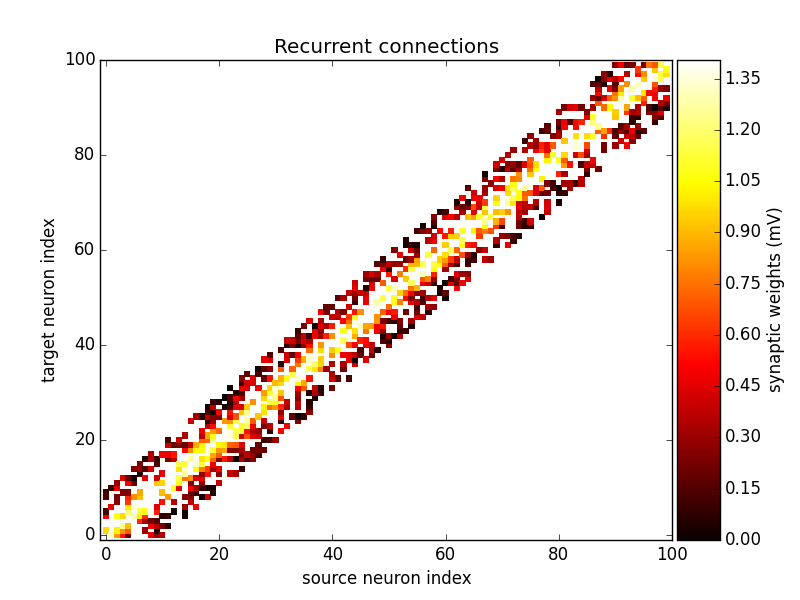
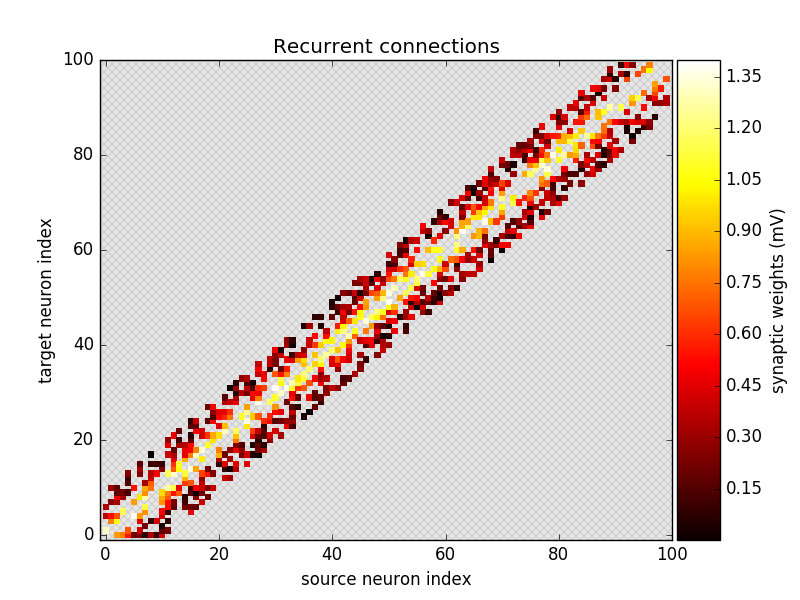
Add a new `add_background_pattern function` and use it in one of the examples

diff --git a/brian2tools/plotting/base.py b/brian2tools/plotting/base.py
@@ -2,6 +2,7 @@
 Base module for the plotting facilities.
 '''
 import matplotlib.pyplot as plt
+import matplotlib.patches as patches
 import numpy as np
 
 from brian2.core.variables import VariableView
@@ -17,7 +18,7 @@ from .data import plot_raster, plot_state, plot_rate
 from .morphology import plot_dendrogram
 from .synapses import plot_synapses
 
-__all__ = ['brian_plot']
+__all__ = ['brian_plot', 'add_background_pattern']
 
 logger = get_logger(__name__)
 
@@ -151,3 +152,40 @@ def brian_plot(brian_obj,
     else:
         raise NotImplementedError('Do not know how to plot object of type '
                                   '%s' % type(brian_obj))
+
+
+def add_background_pattern(axes, hatch='xxx', fill=True, fc=(0.9, 0.9, 0.9),
+                           ec=(0.8, 0.8, 0.8), zorder=-10, **kwds):
+    '''
+    Add a "hatching" pattern to the background of the axes (can be useful to
+    make a difference between "no value" and a value mapped to a color value
+    that is identical to the background color). By default, it uses a cross
+    hatching pattern in gray which can be changed by providing the respective
+    arguments. All additional keyword arguments are passed on to the
+    `~matplotlib.patches.Rectangle` intializer.
+
+    Parameters
+    ----------
+    axes : `matplotlib.axes.Axes`
+        The axes where the
+    hatch : str, optional
+        See `matplotlib.patches.Patch.set_hatch`. Defaults to `'xxx'`.
+    fill : bool, optional
+        See `matplotlib.patches.Patch.set_fill`. Defaults to `True`.
+    fc : mpl color spec or None or 'none'
+        See `matplotlib.patches.Patch.set_facecolor`. Defaults to
+        `(0.9, 0.9, 0.9)`.
+    ec : mpl color spec or None or 'none'
+        See `matplotlib.patches.Patch.set_edgecolor`. Defaults to
+        `(0.8, 0.8, 0.8)`.
+    zorder : int
+        See `matplotlib.artist.Artist.set_zorder`. Defaults to `-10`.
+    '''
+    xmin, xmax = axes.get_xlim()
+    ymin, ymax = axes.get_ylim()
+    xy = (xmin,ymin)
+    width = xmax - xmin
+    height = ymax - ymin
+    p = patches.Rectangle(xy, width, height, hatch=hatch, fill=fill, fc=fc,
+                          ec=ec, zorder=zorder, **kwds)
+    axes.add_patch(p)

diff --git a/brian2tools/plotting/__init__.py b/brian2tools/plotting/__init__.py
@@ -3,10 +3,10 @@ Package containing plotting modules.
 """
 # It is a bit annoying, but otherwise `from brian2tools import *` will import
 # names such as `synapses`.
-from .base import brian_plot
+from .base import brian_plot, add_background_pattern
 from .data import plot_raster, plot_state, plot_rate
 from .morphology import plot_morphology, plot_dendrogram
 from .synapses import plot_synapses
 
-__all__ = ['brian_plot', 'plot_raster', 'plot_state', 'plot_rate',
-           'plot_morphology', 'plot_dendrogram', 'plot_synapses']
+__all__ = ['brian_plot', 'add_background_pattern', 'plot_raster', 'plot_state',
+           'plot_rate', 'plot_morphology', 'plot_dendrogram', 'plot_synapses']

diff --git a/brian2tools/tests/test_plotting.py b/brian2tools/tests/test_plotting.py
@@ -11,6 +11,7 @@ from brian2tools import *
 def test_import():
     # Make sure that the expected names are there
     brian_plot
+    add_background_pattern
     plot_raster
     plot_state
     plot_rate
@@ -67,6 +68,7 @@ def test_plot_synapses():
     assert isinstance(ax, matplotlib.axes.Axes)
     close()
     ax = plot_synapses(synapses.i, synapses.j, plot_type='image')
+    add_background_pattern(ax)
     assert isinstance(ax, matplotlib.axes.Axes)
     close()
     ax = plot_synapses(synapses.i, synapses.j, plot_type='hexbin')

diff --git a/dev/doc_tools/plotting_examples/synapses_plots.py b/dev/doc_tools/plotting_examples/synapses_plots.py
@@ -36,6 +36,7 @@ close()
 
 ax = plot_synapses(synapses.i, synapses.j, synapses.w, var_name='synaptic weights',
                    plot_type='scatter', cmap='hot')
+add_background_pattern(ax)
 ax.set_title('Recurrent connections')
 synapses.connect(j='i+k for k in sample(-10, 10, p=0.5) if k != 0',
                  skip_if_invalid=True)  # ignore values outside of the limits

diff --git a/docs_sphinx/user/plotting.rst b/docs_sphinx/user/plotting.rst
@@ -181,10 +181,13 @@ Synaptic variables such as synaptic weights or delays can also be plotted with `
 
 .. image:: ../images/plot_synapses_weights_delays.svg
 
-Again, using `~brian2tools.plotting.synapses.plot_synapses` provides more control::
+Again, using `~brian2tools.plotting.synapses.plot_synapses` provides more control. The following code snippet also calls
+the `~brian2tools.plotting.base.add_background_pattern` function to make the distinction between white color values and
+the background clearer::
 
     ax = plot_synapses(synapses.i, synapses.j, synapses.w, var_name='synaptic weights',
                        plot_type='scatter', cmap='hot')
+    add_background_pattern(ax)
     ax.set_title('Recurrent connections')
 
 .. image:: ../images/plot_synapses_weights_custom.png

diff --git a/docs_sphinx/release_notes.rst b/docs_sphinx/release_notes.rst
@@ -14,6 +14,8 @@ Improvements and bug fixes
 * Fix that `~brian2tools.plotting.base.brian_plot` was not always returning the `~matplotlib.axes.Axes` object.
 * Enable direct calls of `~brian2tools.plotting.base.brian_plot` with a synaptic variable or an indexed
   `~brian2.monitors.statemonitor.StateMonitor` (to only plot a subset of recorded cells).
+* A new function `~brian2tools.plotting.base.add_background_pattern` to add a hatching pattern to the figure background
+  (for colormaps that include the background color).
 
 Testing, suggestions and bug reports (ordered alphabetically, apologies to anyone we forgot...):
 
